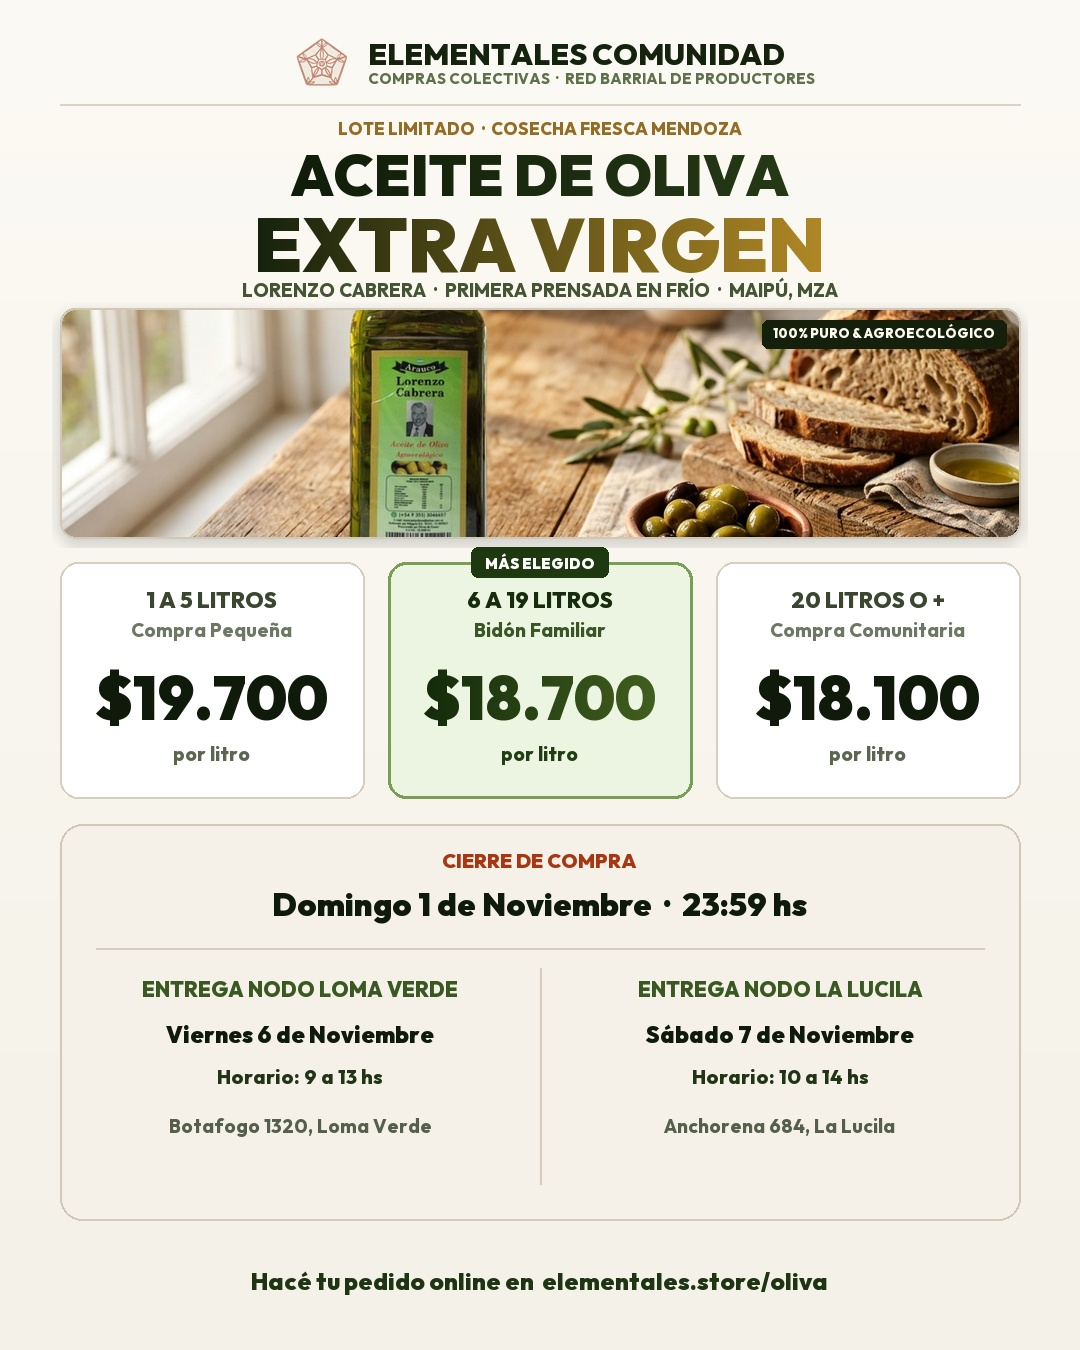
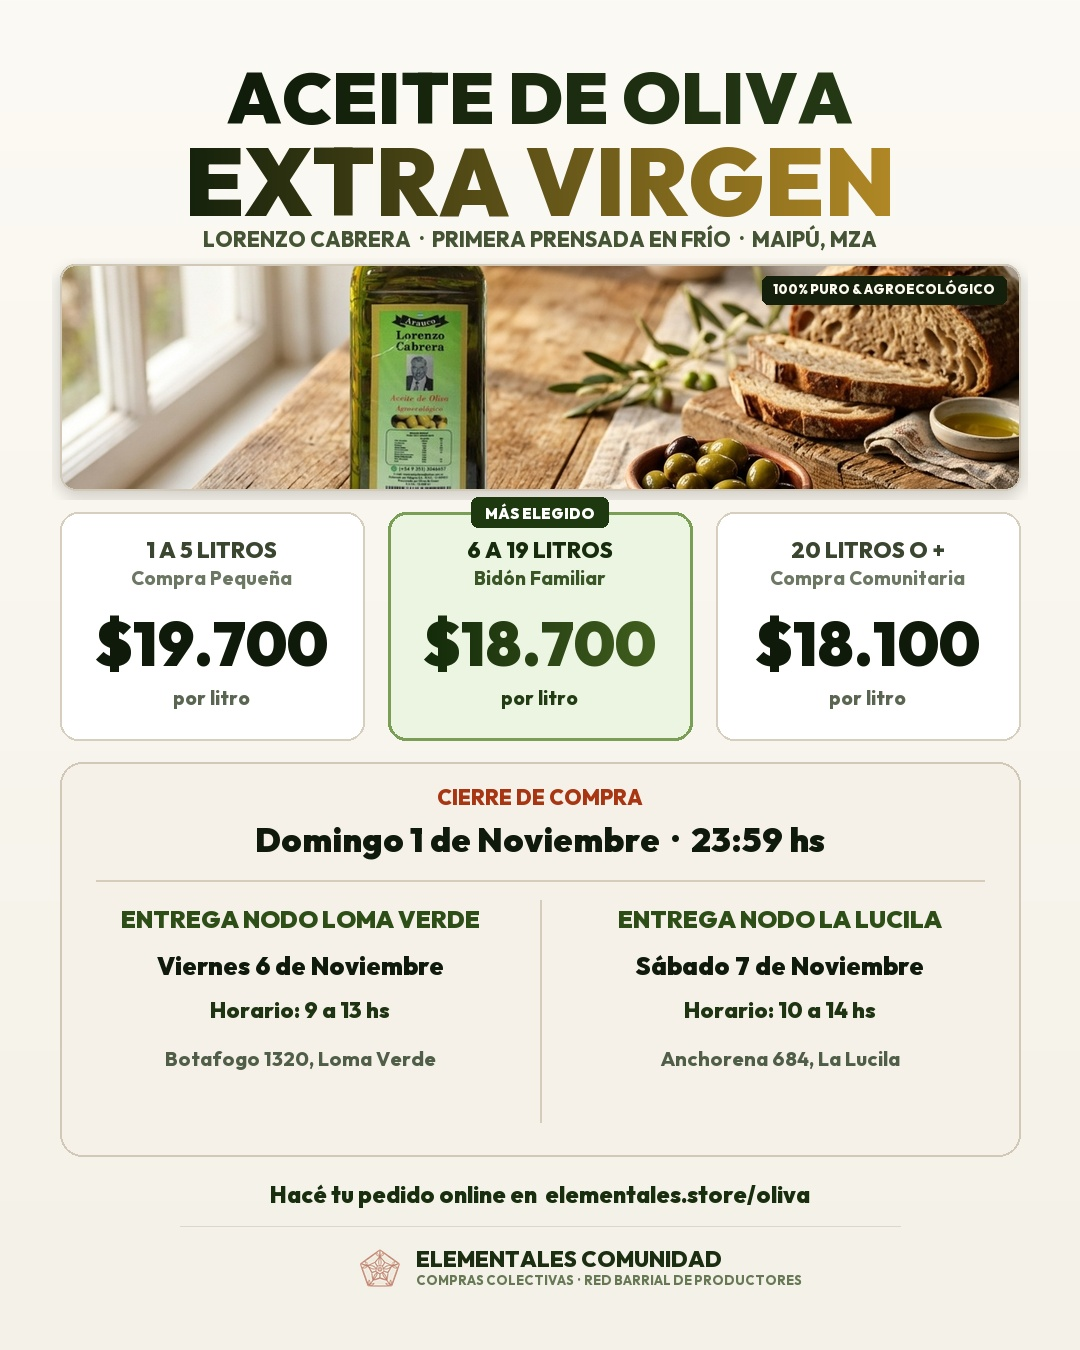
style(flyer): reubicar isologo al footer, titulo arriba mas grande sin lote limitado, agrandar textos de nodos

diff --git a/build_flyer_art.py b/build_flyer_art.py
@@ -57,12 +57,14 @@ def main():
     logo_path = os.path.join(ROOT_DIR, "public", "assets", "logo_icon.png")
     photo_path = os.path.join(ROOT_DIR, "public", "assets", "products", "aceite_lorenzo_mesa.jpg")
     
-    # Save both to regular name and to a fresh cache-busting name
+    # Paths for output files (including cache busters)
     output_path = os.path.join(ROOT_DIR, "public", "assets", "products", "flyer_oliva_noviembre.jpg")
     output_path_v2 = os.path.join(ROOT_DIR, "public", "assets", "products", "flyer_oliva_noviembre_actualizado.jpg")
+    output_path_v3 = os.path.join(ROOT_DIR, "public", "assets", "products", "flyer_oliva_noviembre_v3.jpg")
     
     artifact_path = r"C:\Users\Rami\.gemini\antigravity\brain\6aae8b24-5824-4a75-9321-ac52a81a3a00\flyer_oliva_noviembre.jpg"
     artifact_path_v2 = r"C:\Users\Rami\.gemini\antigravity\brain\6aae8b24-5824-4a75-9321-ac52a81a3a00\flyer_oliva_noviembre_actualizado.jpg"
+    artifact_path_v3 = r"C:\Users\Rami\.gemini\antigravity\brain\6aae8b24-5824-4a75-9321-ac52a81a3a00\flyer_oliva_noviembre_v3.jpg"
 
     # Canvas dimensions: 1080 x 1350 (4:5 Instagram & WhatsApp portrait)
     W, H = 1080, 1350
@@ -82,88 +84,59 @@ def main():
     # ----------------------------------------------------
     # CARGA DE TIPOGRAFÍAS CON MÁXIMO PESO Y ESCALA
     # ----------------------------------------------------
-    font_header_title = get_font(30, weight=850)
-    font_header_sub   = get_font(15, weight=750)
-    
-    font_eyebrow      = get_font(17, weight=800)
-    font_hero_l1      = get_font(58, weight=900)
-    font_hero_l2      = get_font(76, weight=900)
-    font_hero_sub     = get_font(19, weight=750)
+    # Titular Hero (Ahora arriba de todo y más grande)
+    font_hero_l1      = get_font(72, weight=900)
+    font_hero_l2      = get_font(94, weight=900)
+    font_hero_sub     = get_font(21, weight=800)
     font_photo_badge  = get_font(13, weight=850)
     
-    # Precios AÚN MÁS GRANDES (precios a 60-64px Black 900)
+    # Precios
     font_tier_vol     = get_font(22, weight=850)
     font_tier_name    = get_font(19, weight=750)
     font_tier_price   = get_font(62, weight=900)
     font_tier_unit    = get_font(19, weight=800)
     font_badge_rec    = get_font(15, weight=900)
     
-    # Fechas y entregas AÚN MÁS GRANDES Y LEGIBLES
-    font_date_eyebrow = get_font(20, weight=850)
-    font_date_main    = get_font(32, weight=900)
-    font_date_col_h   = get_font(21, weight=850)
-    font_date_day     = get_font(23, weight=900)
-    font_date_time    = get_font(20, weight=800)
-    font_date_loc     = get_font(19, weight=750)
+    # Fechas y entregas (TEXTOS DE NODOS AGRANDADOS)
+    font_date_eyebrow = get_font(21, weight=850)
+    font_date_main    = get_font(34, weight=900)
+    font_date_col_h   = get_font(24, weight=900)   # Agrandado
+    font_date_day     = get_font(25, weight=900)   # Agrandado
+    font_date_time    = get_font(22, weight=850)   # Agrandado
+    font_date_loc     = get_font(20, weight=750)   # Agrandado
     
-    # Web link limpio
-    font_web_link     = get_font(24, weight=850)
+    # Web link & Footer Elementales Comunidad
+    font_web_link     = get_font(23, weight=850)
+    font_footer_title = get_font(22, weight=850)
+    font_footer_sub   = get_font(13, weight=750)
 
     # ----------------------------------------------------
-    # 1. HEADER HORIZONTAL COMPACTO
+    # 1. TITULAR HERO PRINCIPAL (ARRIBA DE TODO, MÁS GRANDE Y SIN LOTE LIMITADO)
+    # Comienza en y = 52
     # ----------------------------------------------------
-    header_y = 34
-    logo_img = Image.open(logo_path).convert("RGBA")
-    logo_h = 56
-    logo_w = int(logo_img.width * (logo_h / logo_img.height))
-    logo_resized = logo_img.resize((logo_w, logo_h), Image.Resampling.LANCZOS)
-    
-    title_text = "ELEMENTALES COMUNIDAD"
-    sub_text = "COMPRAS COLECTIVAS  ·  RED BARRIAL DE PRODUCTORES"
-    t_bbox = font_header_title.getbbox(title_text)
-    title_w = t_bbox[2] - t_bbox[0]
-    total_header_w = logo_w + 18 + title_w
-    header_start_x = (W - total_header_w) // 2
-
-    canvas.alpha_composite(logo_resized, (header_start_x, header_y))
-
-    text_x = header_start_x + logo_w + 18
-    draw.text((text_x, header_y + 1), title_text, font=font_header_title, fill=(20, 34, 14, 255))
-    draw.text((text_x, header_y + 35), sub_text, font=font_header_sub, fill=(94, 112, 76, 255))
-
-    draw.line([(60, 104), (W - 60, 104)], fill=(218, 210, 196, 255), width=2)
-
-    # ----------------------------------------------------
-    # 2. HERO TITULAR CON DEGRADÉ DE IMPRENTA
-    # ----------------------------------------------------
-    eyebrow_text = "LOTE LIMITADO  ·  COSECHA FRESCA MENDOZA"
-    eb_bbox = font_eyebrow.getbbox(eyebrow_text)
-    eb_w = eb_bbox[2] - eb_bbox[0]
-    draw.text(((W - eb_w) // 2, 118), eyebrow_text, font=font_eyebrow, fill=(148, 108, 38, 255))
-
     title_l1 = "ACEITE DE OLIVA"
     l1_bbox = font_hero_l1.getbbox(title_l1)
     l1_w = l1_bbox[2] - l1_bbox[0]
     grad_l1, ox1, oy1 = create_gradient_text(title_l1, font_hero_l1, (16, 28, 10), (38, 58, 22), horizontal=True)
-    canvas.alpha_composite(grad_l1, ((W - l1_w) // 2 - ox1, 138 - oy1))
+    canvas.alpha_composite(grad_l1, ((W - l1_w) // 2 - ox1, 52 - oy1))
 
     title_l2 = "EXTRA VIRGEN"
     l2_bbox = font_hero_l2.getbbox(title_l2)
     l2_w = l2_bbox[2] - l2_bbox[0]
     grad_l2, ox2, oy2 = create_gradient_text(title_l2, font_hero_l2, (18, 32, 12), (180, 138, 38), horizontal=True)
-    canvas.alpha_composite(grad_l2, ((W - l2_w) // 2 - ox2, 196 - oy2))
+    canvas.alpha_composite(grad_l2, ((W - l2_w) // 2 - ox2, 122 - oy2))
 
     sub_product = "LORENZO CABRERA  ·  PRIMERA PRENSADA EN FRÍO  ·  MAIPÚ, MZA"
     sp_bbox = font_hero_sub.getbbox(sub_product)
     sp_w = sp_bbox[2] - sp_bbox[0]
-    draw.text(((W - sp_w) // 2, 278), sub_product, font=font_hero_sub, fill=(68, 84, 52, 255))
+    draw.text(((W - sp_w) // 2, 226), sub_product, font=font_hero_sub, fill=(68, 84, 52, 255))
 
     # ----------------------------------------------------
-    # 3. IMAGEN HERO NOTABLEMENTE ACHICADA (230px de altura)
-    # Permite que toda la información inferior sea gigante y legible
+    # 2. IMAGEN HERO DE PRODUCTO (MESA RÚSTICA)
+    # y = 264 a 490 (alto 226px)
     # ----------------------------------------------------
-    img_y = 308
-    img_w, img_h = 960, 230
+    img_y = 264
+    img_w, img_h = 960, 226
     img_x = (W - img_w) // 2
 
     photo = Image.open(photo_path).convert("RGBA")
@@ -208,13 +181,12 @@ def main():
     draw.text((tag_x + 11, tag_y + 5), badge_tag, font=font_photo_badge, fill=(255, 250, 240, 255))
 
     # ----------------------------------------------------
-    # 4. VALORES POR LITRO (MUCHO MÁS GRANDES Y CONTUNDENTES)
-    # Altura de tarjeta: 236px
-    # Precios de $19.700 / $18.700 / $18.100 a 62px Black 900
+    # 3. VALORES POR LITRO (3 TARJETAS CON MÁXIMA CLARIDAD)
+    # y = 510 a 740 (alto 230px)
     # ----------------------------------------------------
-    tiers_y = 562
+    tiers_y = 512
     card_w = 304
-    card_h = 236
+    card_h = 228
     gap = (img_w - (card_w * 3)) // 2
     cards_x = [img_x, img_x + card_w + gap, img_x + (card_w + gap) * 2]
 
@@ -270,18 +242,18 @@ def main():
             # Tier Name
             n_bb = font_tier_name.getbbox(tier["name"])
             nw = n_bb[2] - n_bb[0]
-            draw.text((cx + (card_w - nw) // 2, cy + 56), tier["name"], font=font_tier_name, fill=(58, 86, 38, 255))
+            draw.text((cx + (card_w - nw) // 2, cy + 54), tier["name"], font=font_tier_name, fill=(58, 86, 38, 255))
 
             # Price (62px con degradé de imprenta oliva)
             p_bb = font_tier_price.getbbox(tier["price"])
             pw = p_bb[2] - p_bb[0]
             grad_p, opx, opy = create_gradient_text(tier["price"], font_tier_price, (18, 40, 10), (68, 98, 32), horizontal=True)
-            canvas.alpha_composite(grad_p, (cx + (card_w - pw) // 2 - opx, cy + 96 - opy))
+            canvas.alpha_composite(grad_p, (cx + (card_w - pw) // 2 - opx, cy + 92 - opy))
 
             # Unit
             u_bb = font_tier_unit.getbbox(tier["unit"])
             uw = u_bb[2] - u_bb[0]
-            draw.text((cx + (card_w - uw) // 2, cy + 180), tier["unit"], font=font_tier_unit, fill=(34, 60, 20, 255))
+            draw.text((cx + (card_w - uw) // 2, cy + 174), tier["unit"], font=font_tier_unit, fill=(34, 60, 20, 255))
 
         else:
             # Regular cards: White card with distinct crisp border
@@ -294,102 +266,132 @@ def main():
 
             n_bb = font_tier_name.getbbox(tier["name"])
             nw = n_bb[2] - n_bb[0]
-            draw.text((cx + (card_w - nw) // 2, cy + 56), tier["name"], font=font_tier_name, fill=(108, 120, 100, 255))
+            draw.text((cx + (card_w - nw) // 2, cy + 54), tier["name"], font=font_tier_name, fill=(108, 120, 100, 255))
 
             # Price (62px Black 900)
             p_bb = font_tier_price.getbbox(tier["price"])
             pw = p_bb[2] - p_bb[0]
-            draw.text((cx + (card_w - pw) // 2, cy + 96), tier["price"], font=font_tier_price, fill=(16, 26, 10, 255))
+            draw.text((cx + (card_w - pw) // 2, cy + 92), tier["price"], font=font_tier_price, fill=(16, 26, 10, 255))
 
             u_bb = font_tier_unit.getbbox(tier["unit"])
             uw = u_bb[2] - u_bb[0]
-            draw.text((cx + (card_w - uw) // 2, cy + 180), tier["unit"], font=font_tier_unit, fill=(90, 102, 82, 255))
+            draw.text((cx + (card_w - uw) // 2, cy + 174), tier["unit"], font=font_tier_unit, fill=(90, 102, 82, 255))
 
     # ----------------------------------------------------
-    # 5. BLOQUE DE FECHAS: CIERRE Y ENTREGAS (MÁXIMO TAMAÑO Y LEGIBILIDAD)
-    # Altura ampliada a 386px
+    # 4. BLOQUE DE FECHAS: CIERRE Y ENTREGAS (TEXTOS AGRANDADOS)
+    # y = 762 a 1152 (alto 390px)
     # ----------------------------------------------------
-    info_y = 824
-    info_h = 396
+    info_y = 762
+    info_h = 394
     draw.rounded_rectangle([img_x, info_y, img_x + img_w, info_y + info_h], radius=22,
                            fill=(245, 241, 232, 255), outline=(210, 200, 184, 255), width=2)
 
-    # 5.1 Cierre de pedidos
+    # 4.1 Cierre de compra
     cierre_eyebrow = "CIERRE DE COMPRA"
     ce_bb = font_date_eyebrow.getbbox(cierre_eyebrow)
     ce_w = ce_bb[2] - ce_bb[0]
-    draw.text(((W - ce_w) // 2, info_y + 24), cierre_eyebrow, font=font_date_eyebrow, fill=(168, 54, 18, 255))
+    draw.text(((W - ce_w) // 2, info_y + 22), cierre_eyebrow, font=font_date_eyebrow, fill=(168, 54, 18, 255))
 
     cierre_date = "Domingo 1 de Noviembre  ·  23:59 hs"
     cd_bb = font_date_main.getbbox(cierre_date)
     cd_w = cd_bb[2] - cd_bb[0]
-    draw.text(((W - cd_w) // 2, info_y + 60), cierre_date, font=font_date_main, fill=(16, 26, 12, 255))
+    draw.text(((W - cd_w) // 2, info_y + 56), cierre_date, font=font_date_main, fill=(16, 26, 12, 255))
 
     # Divider line
-    draw.line([(img_x + 36, info_y + 124), (img_x + img_w - 36, info_y + 124)], fill=(214, 204, 188, 255), width=2)
+    draw.line([(img_x + 36, info_y + 118), (img_x + img_w - 36, info_y + 118)], fill=(214, 204, 188, 255), width=2)
 
-    # 5.2 Entregas en dos columnas bien diferenciadas y legibles
+    # 4.2 Entregas en dos columnas (CON TEXTOS NOTABLEMENTE MÁS GRANDES)
     col_w = img_w // 2
     
     # Columna Loma Verde
     lv_cx = img_x + col_w // 2
-    
     lv_t1 = "ENTREGA NODO LOMA VERDE"
     lv_t2 = "Viernes 6 de Noviembre"
     lv_t3 = "Horario: 9 a 13 hs"
     lv_t4 = "Botafogo 1320, Loma Verde"
 
     b1 = font_date_col_h.getbbox(lv_t1)
-    draw.text((lv_cx - (b1[2]-b1[0])//2, info_y + 152), lv_t1, font=font_date_col_h, fill=(58, 88, 34, 255))
+    draw.text((lv_cx - (b1[2]-b1[0])//2, info_y + 142), lv_t1, font=font_date_col_h, fill=(46, 78, 24, 255))
     
     b2 = font_date_day.getbbox(lv_t2)
-    draw.text((lv_cx - (b2[2]-b2[0])//2, info_y + 196), lv_t2, font=font_date_day, fill=(16, 26, 12, 255))
+    draw.text((lv_cx - (b2[2]-b2[0])//2, info_y + 188), lv_t2, font=font_date_day, fill=(16, 26, 12, 255))
     
     b3 = font_date_time.getbbox(lv_t3)
-    draw.text((lv_cx - (b3[2]-b3[0])//2, info_y + 240), lv_t3, font=font_date_time, fill=(34, 52, 22, 255))
+    draw.text((lv_cx - (b3[2]-b3[0])//2, info_y + 234), lv_t3, font=font_date_time, fill=(30, 52, 18, 255))
     
     b4 = font_date_loc.getbbox(lv_t4)
-    draw.text((lv_cx - (b4[2]-b4[0])//2, info_y + 290), lv_t4, font=font_date_loc, fill=(84, 96, 76, 255))
+    draw.text((lv_cx - (b4[2]-b4[0])//2, info_y + 284), lv_t4, font=font_date_loc, fill=(80, 94, 72, 255))
 
     # Divider vertical central
-    draw.line([(W // 2, info_y + 144), (W // 2, info_y + 360)], fill=(214, 204, 188, 255), width=2)
+    draw.line([(W // 2, info_y + 138), (W // 2, info_y + 360)], fill=(214, 204, 188, 255), width=2)
 
     # Columna La Lucila
     ll_cx = img_x + col_w + col_w // 2
-    
     ll_t1 = "ENTREGA NODO LA LUCILA"
     ll_t2 = "Sábado 7 de Noviembre"
     ll_t3 = "Horario: 10 a 14 hs"
     ll_t4 = "Anchorena 684, La Lucila"
 
     b5 = font_date_col_h.getbbox(ll_t1)
-    draw.text((ll_cx - (b5[2]-b5[0])//2, info_y + 152), ll_t1, font=font_date_col_h, fill=(58, 88, 34, 255))
+    draw.text((ll_cx - (b5[2]-b5[0])//2, info_y + 142), ll_t1, font=font_date_col_h, fill=(46, 78, 24, 255))
     
     b6 = font_date_day.getbbox(ll_t2)
-    draw.text((ll_cx - (b6[2]-b6[0])//2, info_y + 196), ll_t2, font=font_date_day, fill=(16, 26, 12, 255))
+    draw.text((ll_cx - (b6[2]-b6[0])//2, info_y + 188), ll_t2, font=font_date_day, fill=(16, 26, 12, 255))
     
     b7 = font_date_time.getbbox(ll_t3)
-    draw.text((ll_cx - (b7[2]-b7[0])//2, info_y + 240), ll_t3, font=font_date_time, fill=(34, 52, 22, 255))
+    draw.text((ll_cx - (b7[2]-b7[0])//2, info_y + 234), ll_t3, font=font_date_time, fill=(30, 52, 18, 255))
     
     b8 = font_date_loc.getbbox(ll_t4)
-    draw.text((ll_cx - (b8[2]-b8[0])//2, info_y + 290), ll_t4, font=font_date_loc, fill=(84, 96, 76, 255))
+    draw.text((ll_cx - (b8[2]-b8[0])//2, info_y + 284), ll_t4, font=font_date_loc, fill=(80, 94, 72, 255))
 
     # ----------------------------------------------------
-    # 6. CIERRE MINIMALISTA (SIN EL BOTÓN VERDE QUE SE PIDIÓ SACAR)
+    # 5. FOOTER: ENLACE ONLINE + ISOLOGO ELEMENTALES CON BAJADA
+    # y = 1178 a 1326
     # ----------------------------------------------------
+    # 5.1 Enlace web de pedido
     web_text = "Hacé tu pedido online en  elementales.store/oliva"
     wb = font_web_link.getbbox(web_text)
     wb_w = wb[2] - wb[0]
-    draw.text(((W - wb_w) // 2, 1266), web_text, font=font_web_link, fill=(30, 52, 18, 255))
+    draw.text(((W - wb_w) // 2, 1180), web_text, font=font_web_link, fill=(24, 46, 14, 255))
 
-    # Save high-res JPEG
+    # Separador sutil
+    draw.line([(180, 1226), (W - 180, 1226)], fill=(222, 214, 202, 255), width=1)
+
+    # 5.2 Isologo de Elementales Comunidad con su bajada en el footer
+    footer_logo_h = 44
+    logo_img = Image.open(logo_path).convert("RGBA")
+    footer_logo_w = int(logo_img.width * (footer_logo_h / logo_img.height))
+    footer_logo_resized = logo_img.resize((footer_logo_w, footer_logo_h), Image.Resampling.LANCZOS)
+
+    foot_title_text = "ELEMENTALES COMUNIDAD"
+    foot_sub_text = "COMPRAS COLECTIVAS  ·  RED BARRIAL DE PRODUCTORES"
+    ft_bbox = font_footer_title.getbbox(foot_title_text)
+    ft_w = ft_bbox[2] - ft_bbox[0]
+    
+    total_foot_w = footer_logo_w + 14 + ft_w
+    foot_start_x = (W - total_foot_w) // 2
+    foot_y = 1246
+
+    # Estampar logo en footer
+    canvas.alpha_composite(footer_logo_resized, (foot_start_x, foot_y))
+
+    # Textos del footer junto al logo
+    foot_text_x = foot_start_x + footer_logo_w + 14
+    draw.text((foot_text_x, foot_y - 1), foot_title_text, font=font_footer_title, fill=(28, 46, 18, 255))
+    draw.text((foot_text_x, foot_y + 26), foot_sub_text, font=font_footer_sub, fill=(102, 120, 84, 255))
+
+    # Guardar en todas las rutas requeridas (incluyendo cache-busters)
     final_img = canvas.convert("RGB")
     final_img.save(output_path, "JPEG", quality=95, optimize=True)
     final_img.save(output_path_v2, "JPEG", quality=95, optimize=True)
+    final_img.save(output_path_v3, "JPEG", quality=95, optimize=True)
+    
     final_img.save(artifact_path, "JPEG", quality=95, optimize=True)
     final_img.save(artifact_path_v2, "JPEG", quality=95, optimize=True)
+    final_img.save(artifact_path_v3, "JPEG", quality=95, optimize=True)
+    
     print(f"Successfully generated flyer at: {output_path}")
-    print(f"Successfully generated cache-buster flyer at: {output_path_v2}")
+    print(f"Successfully generated cache-buster flyer v3 at: {output_path_v3}")
 
 if __name__ == "__main__":
     main()
